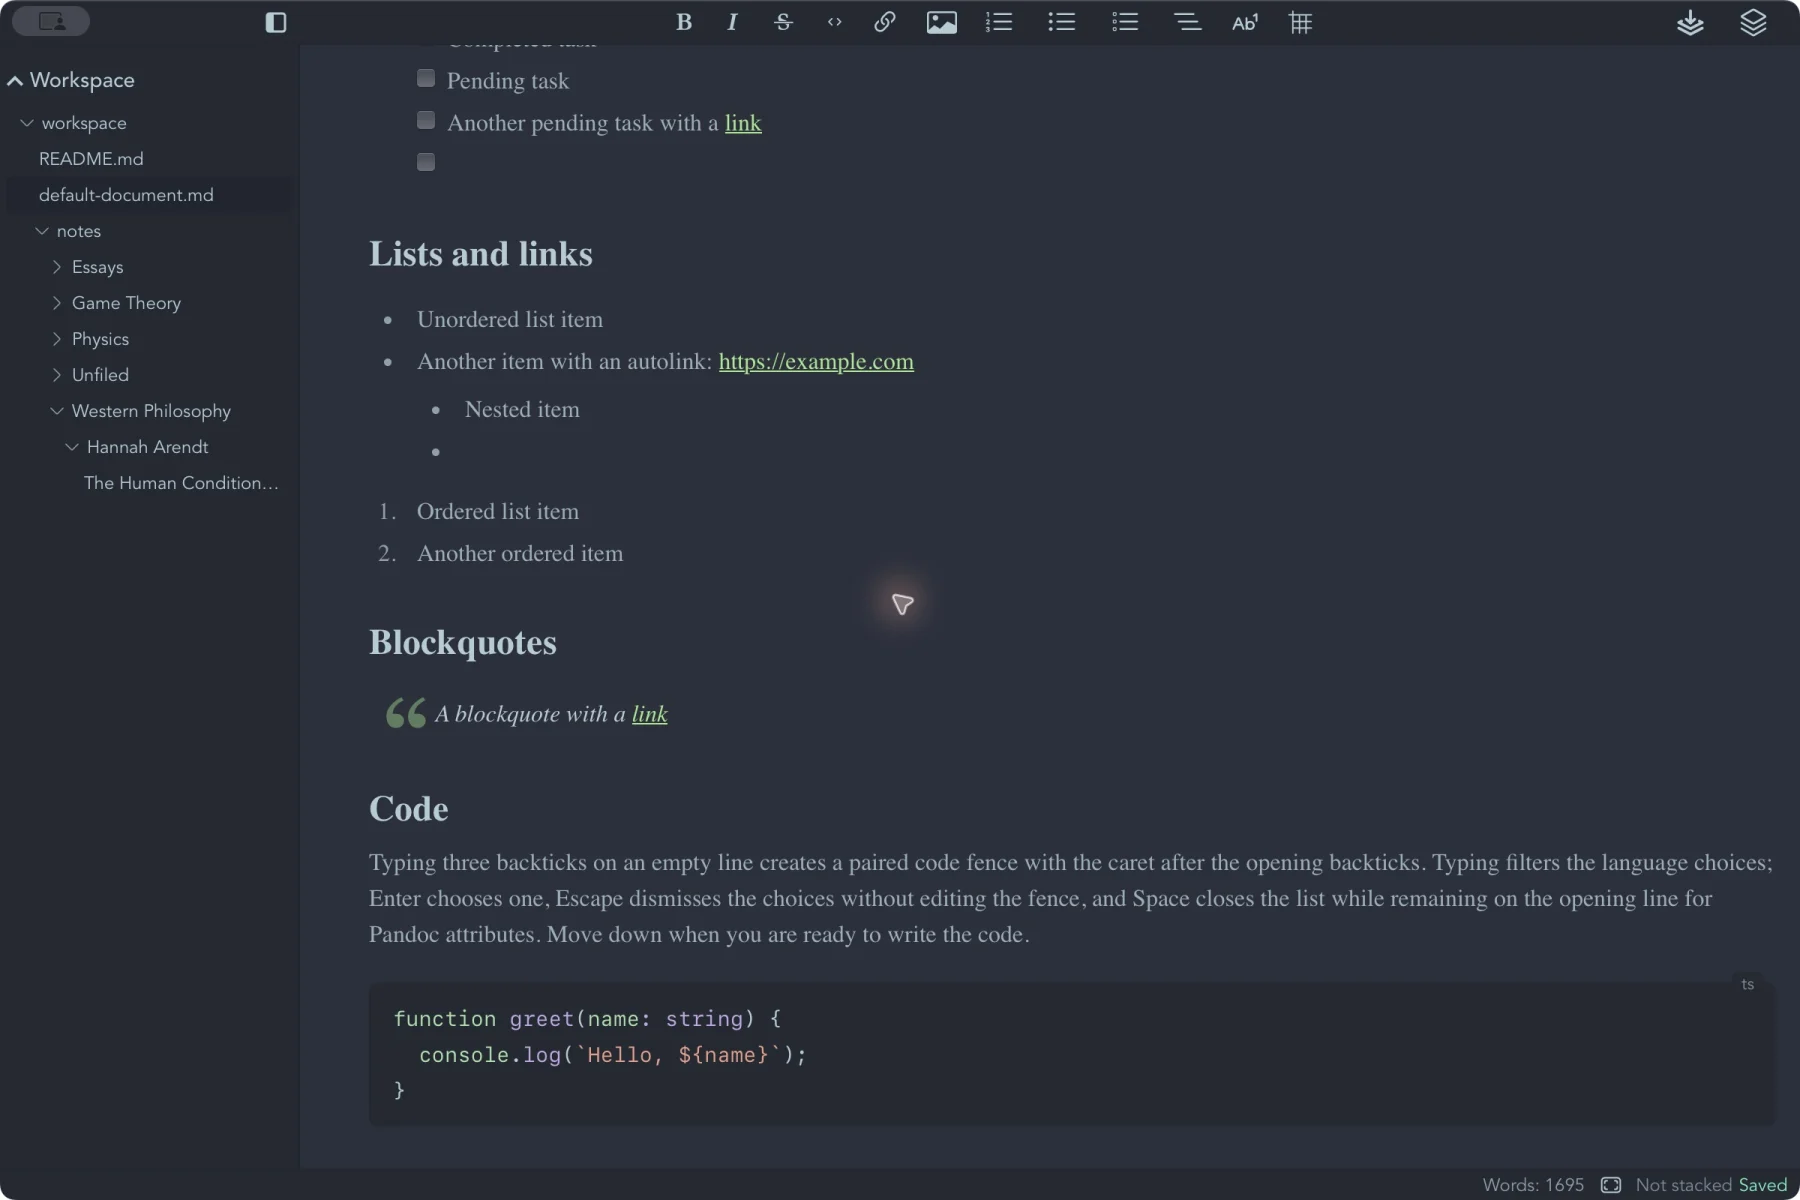
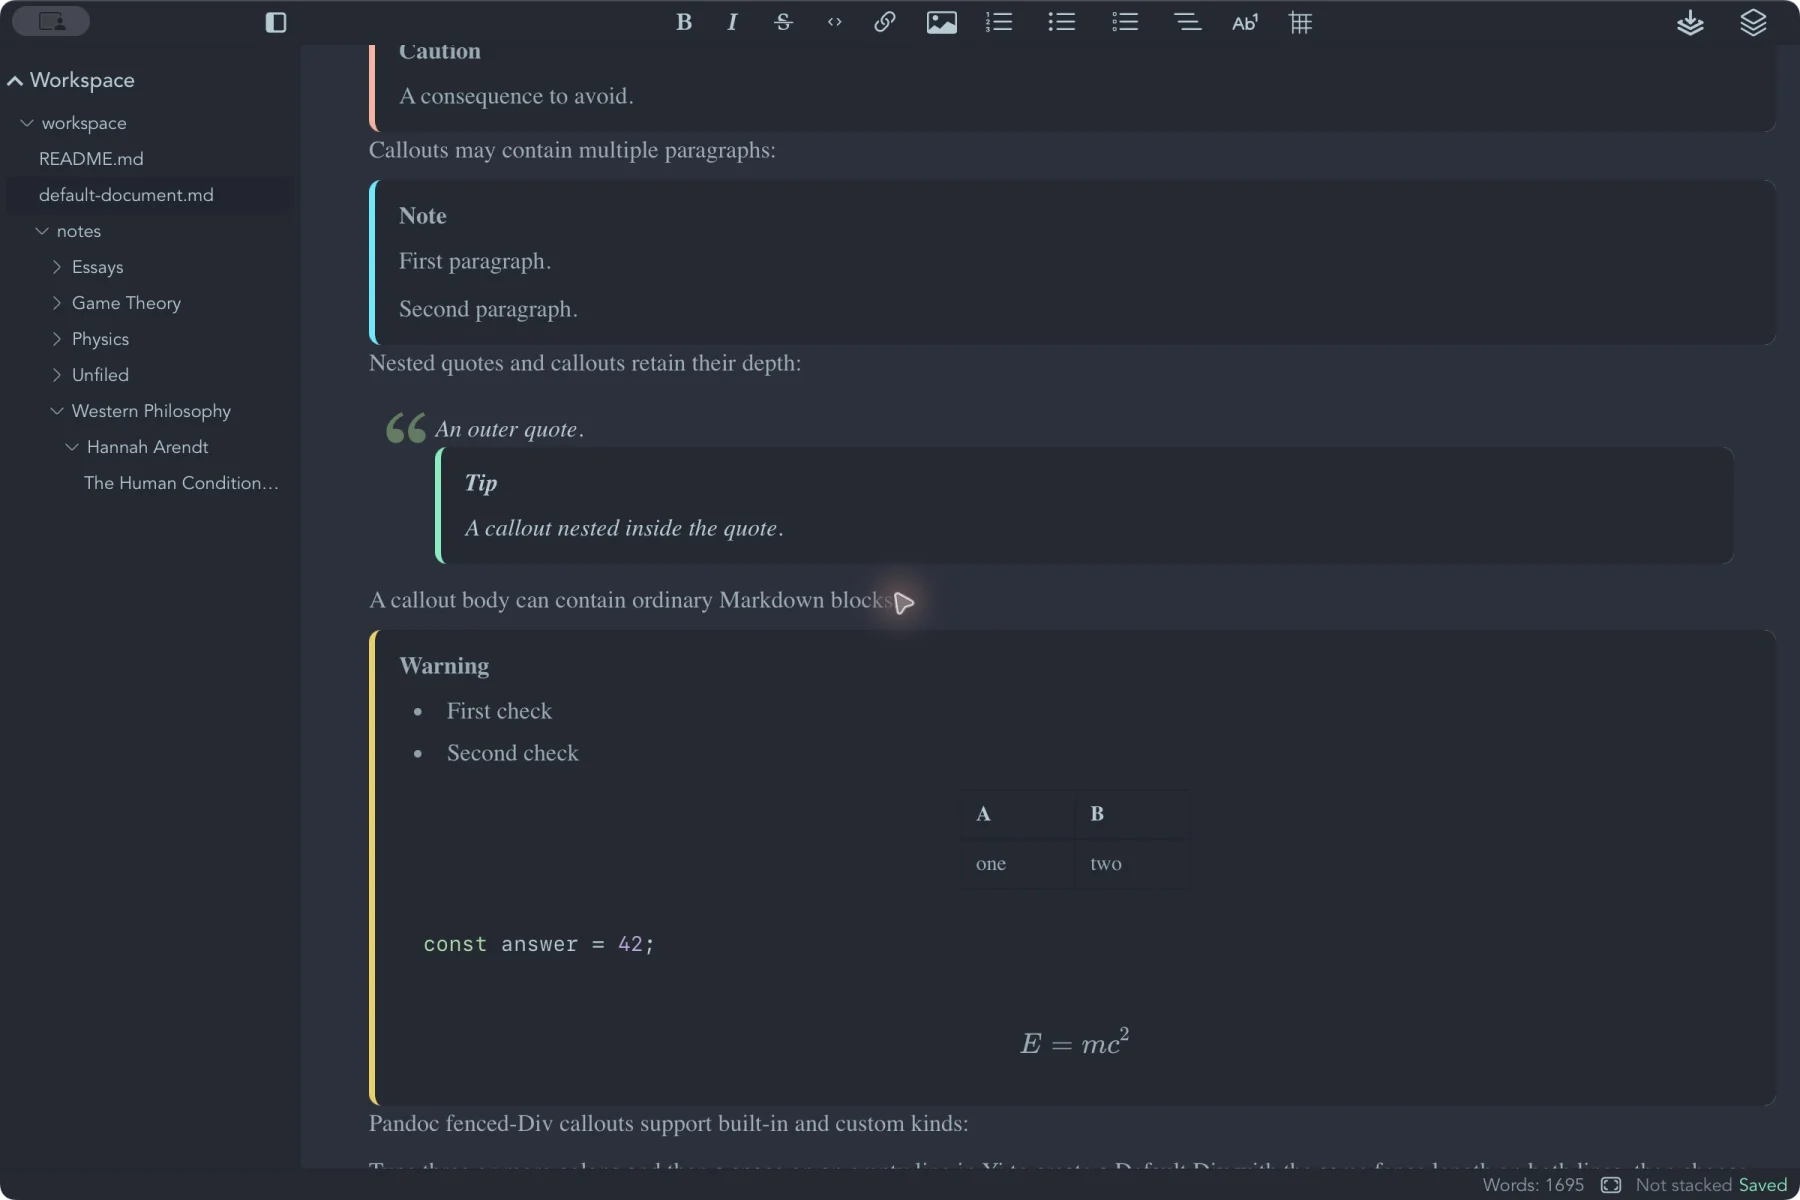
fix(site): verify screenshot dimensions and hero content

diff --git a/site/index.html b/site/index.html
@@ -117,7 +117,7 @@
               data-alt-zh="易的模板工作台，显示打包的导出样式。"
               alt=""
               width="1800"
-              height="1125"
+              height="1200"
               loading="lazy">
           </figure>
         </article>
